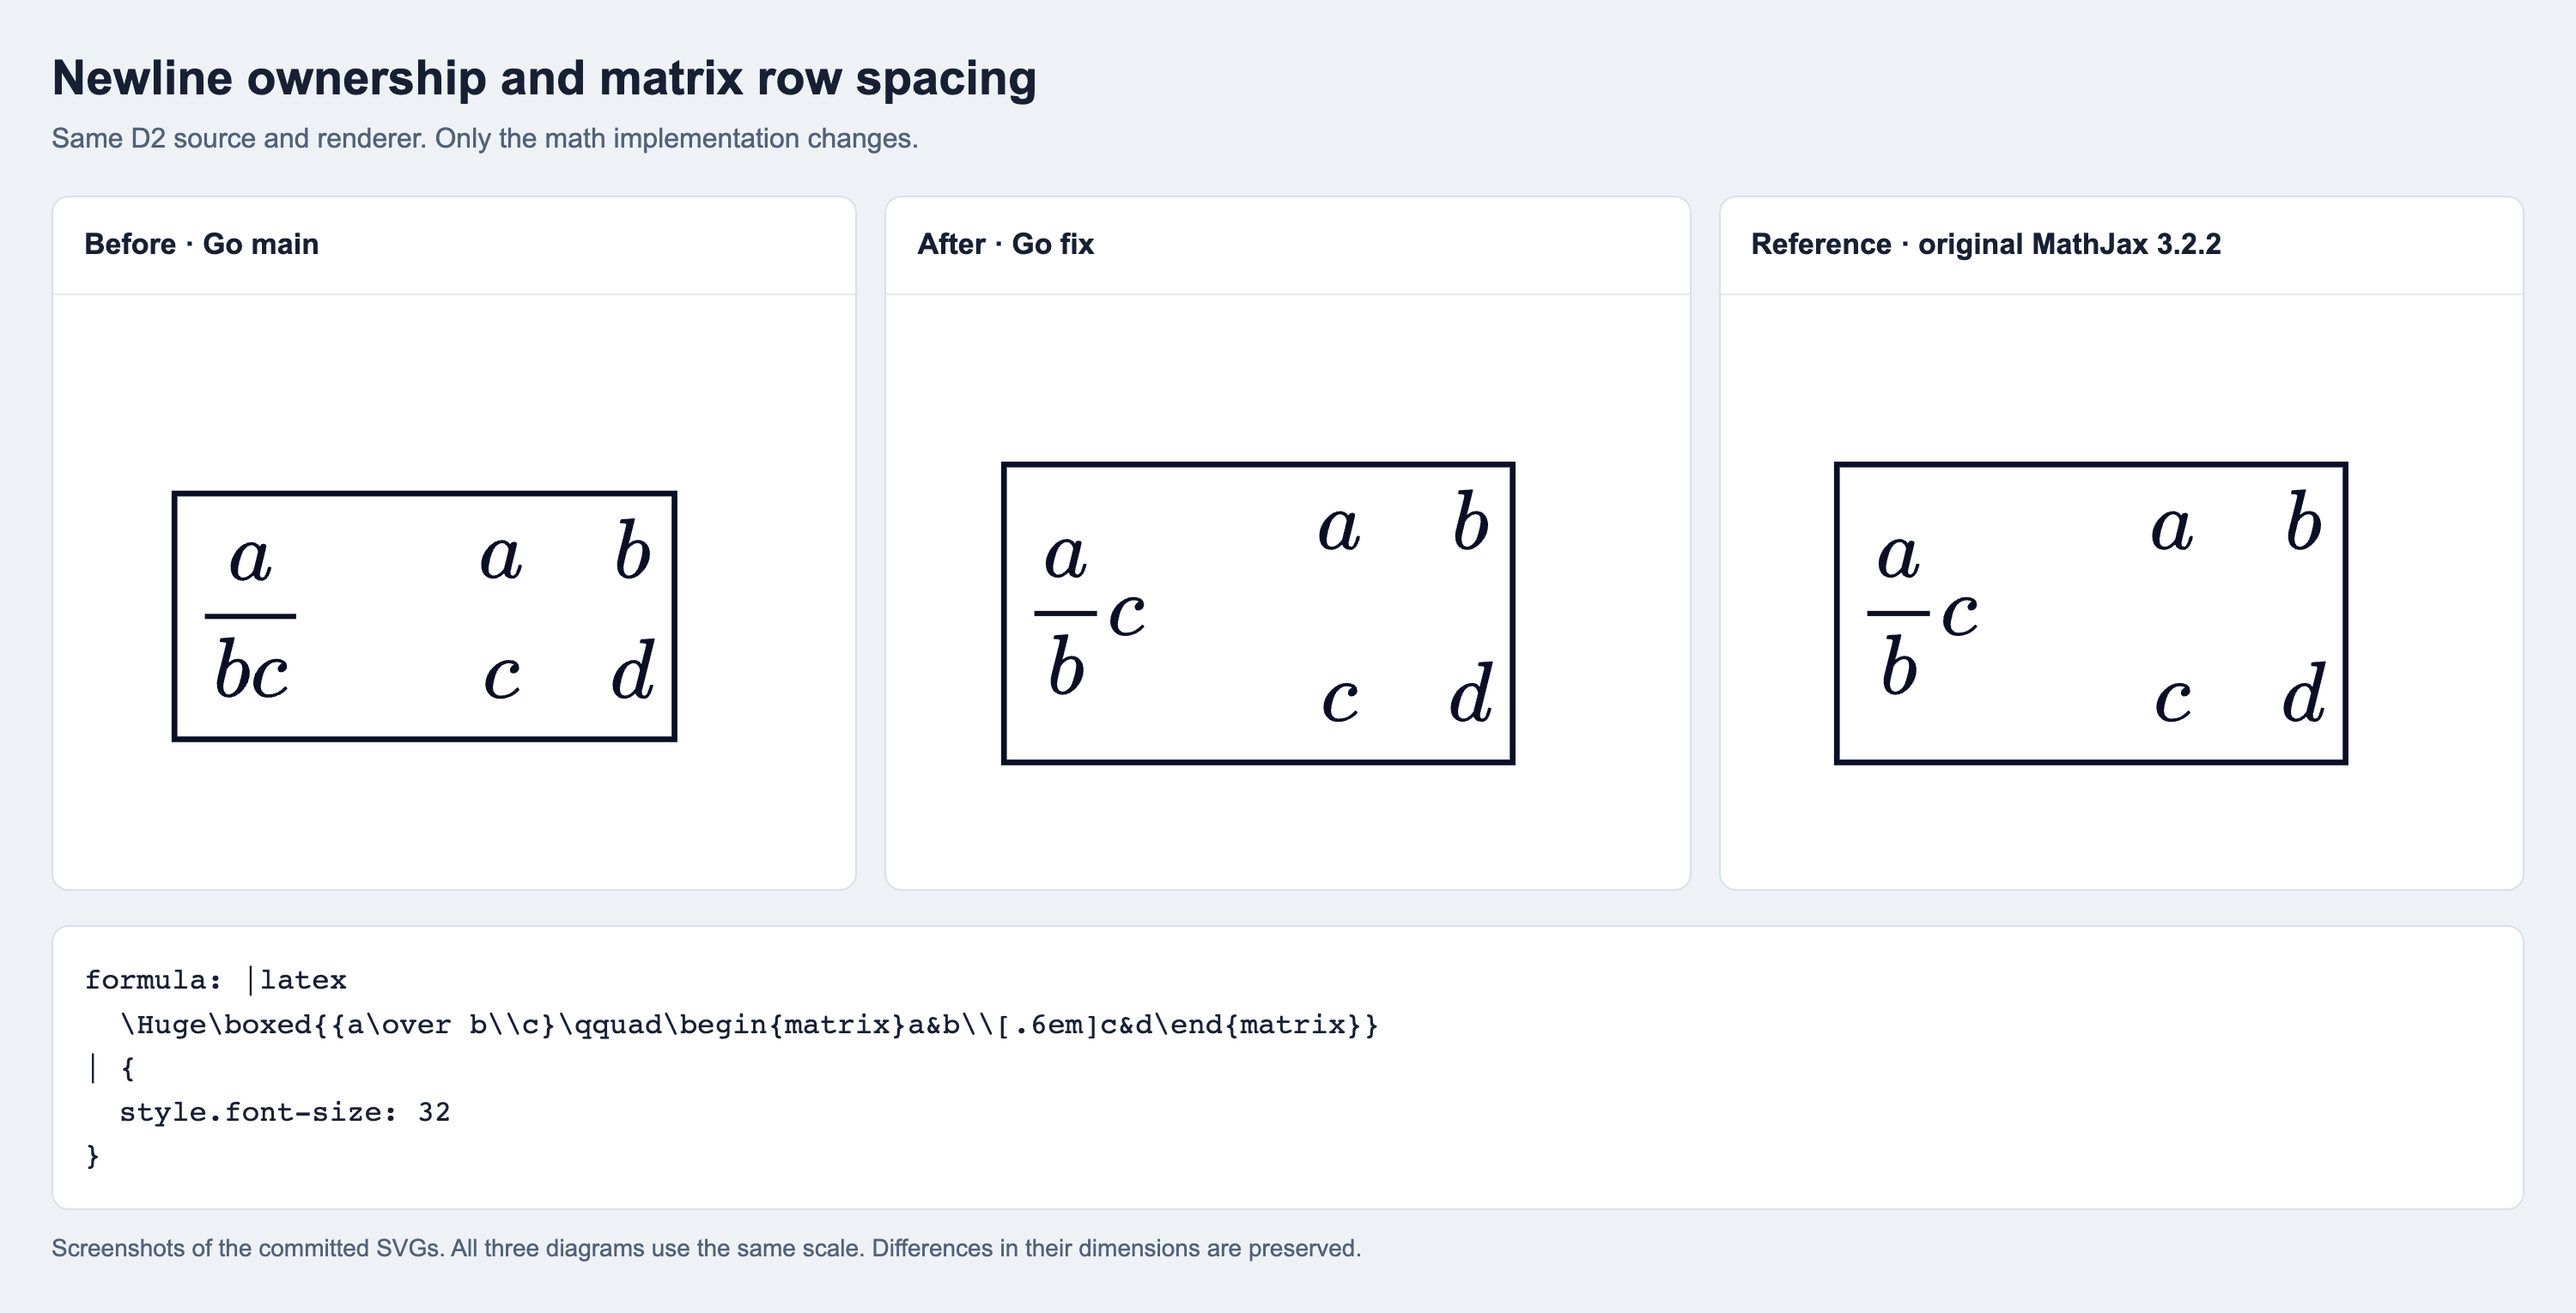
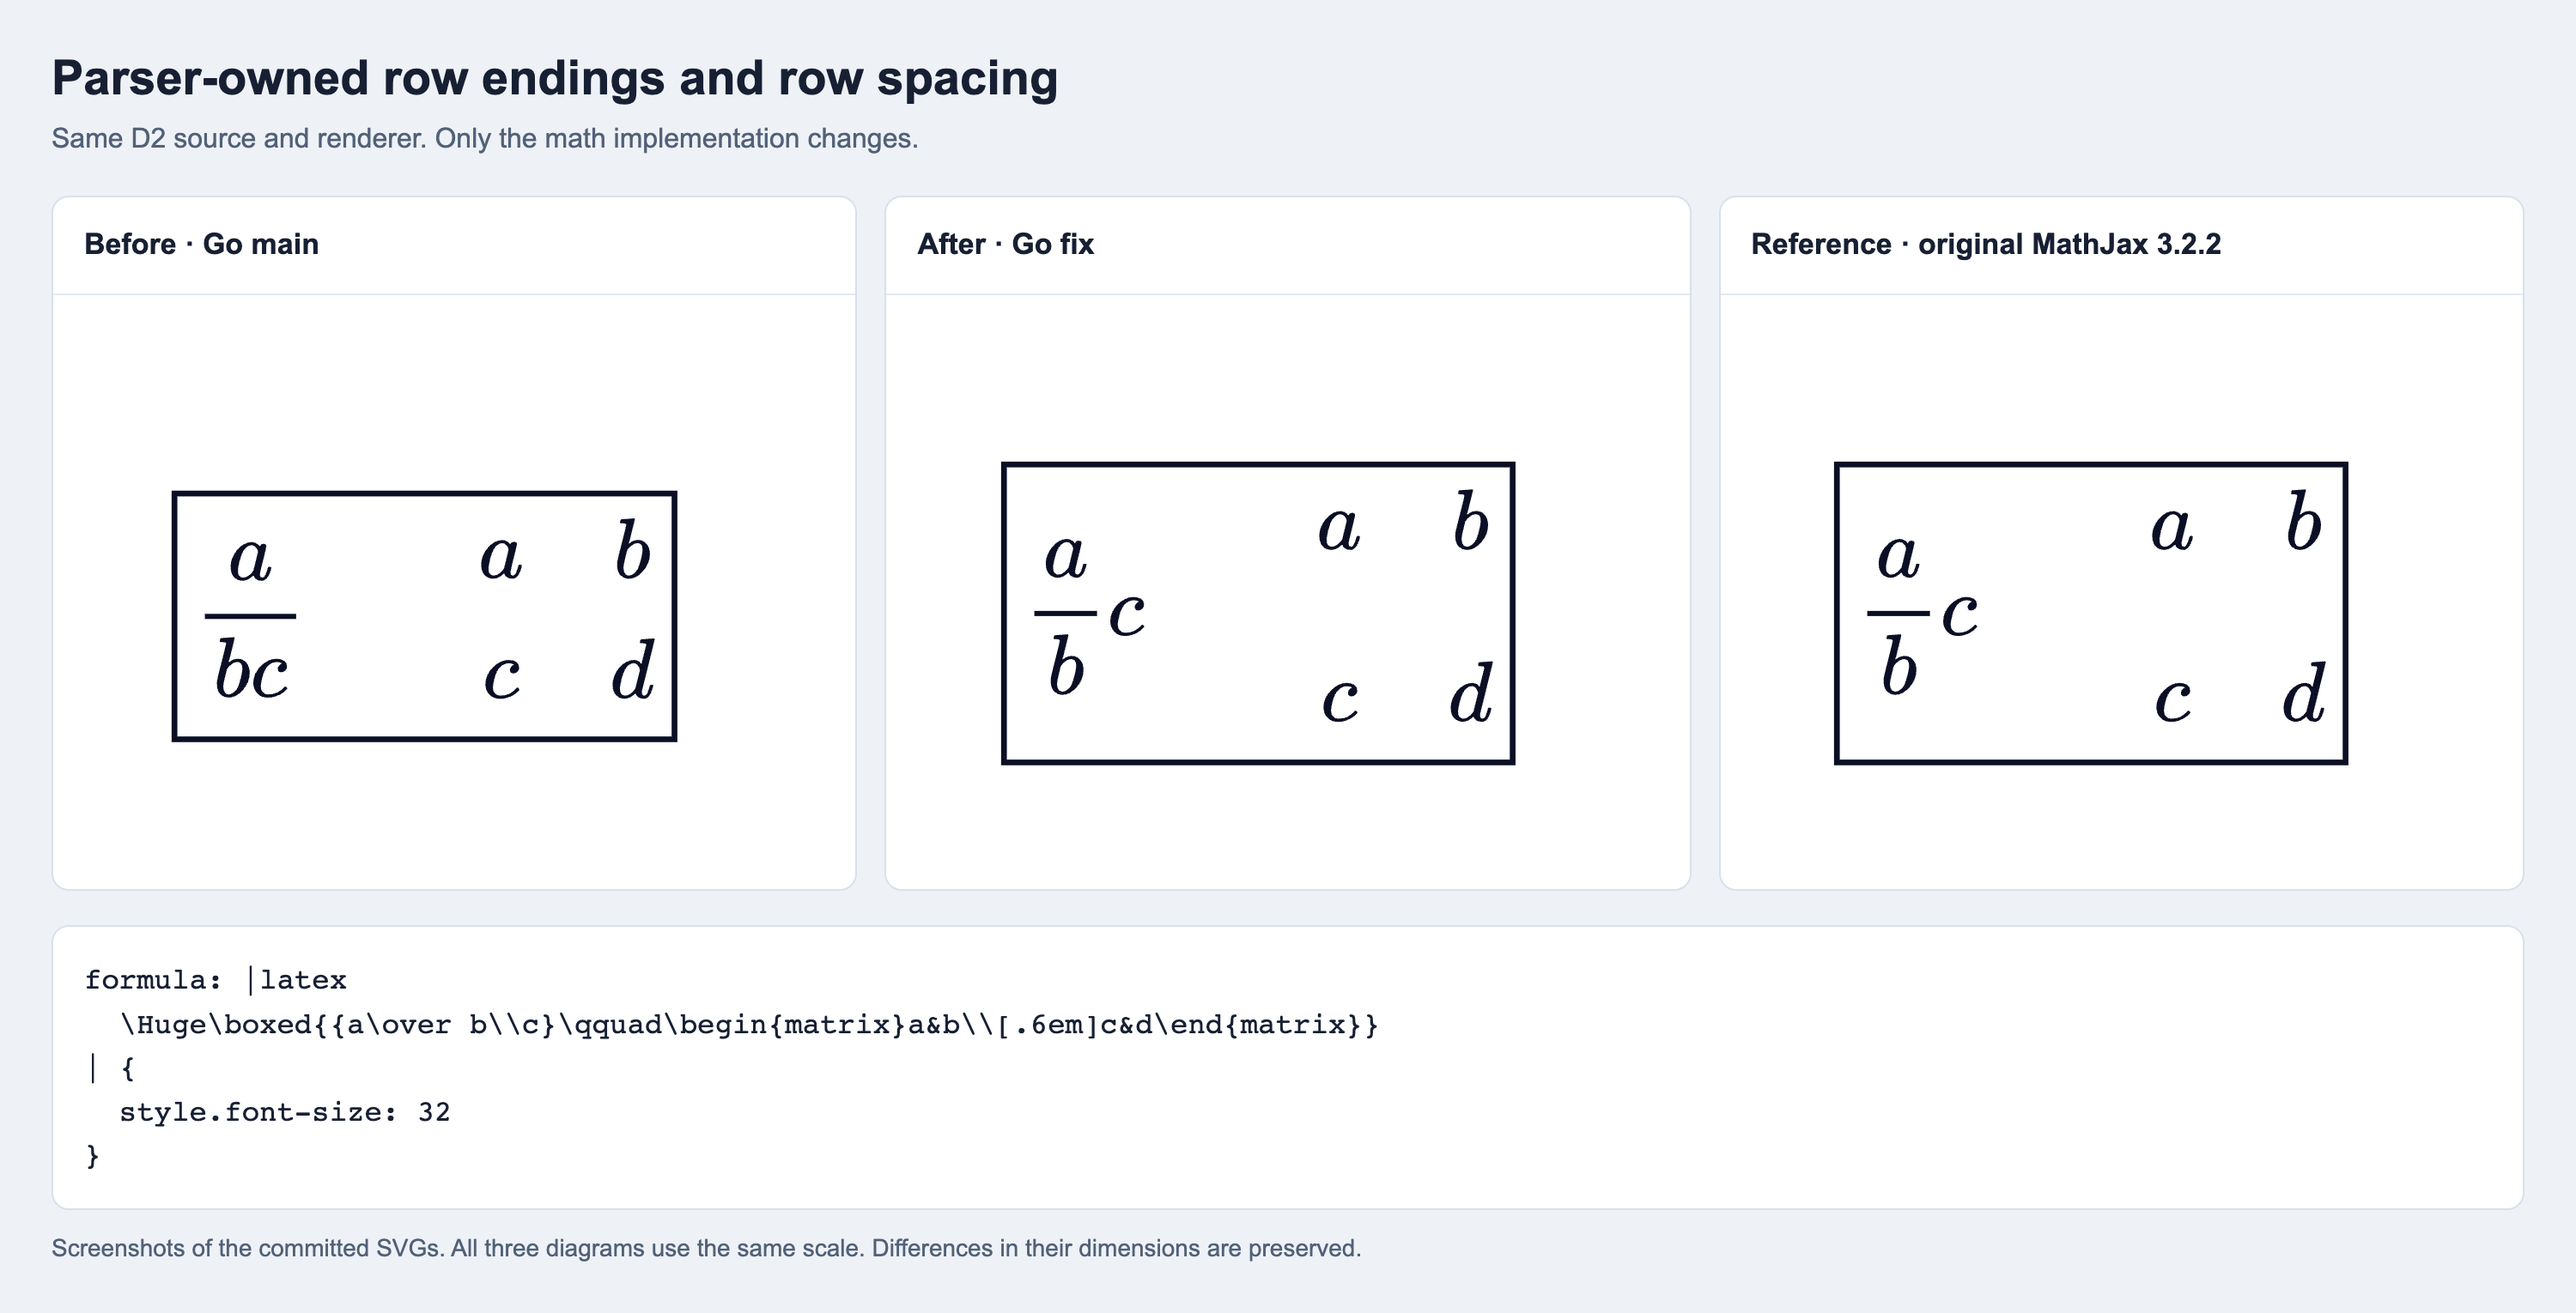
Show original row delivery and Physics matrix fences in D2
- sent from alixander's Codex

Changed region(s): [[0.031, 0.0307, 0.403, 0.0922]]

diff --git a/testdata/parity/physics-matrix-quantity/oracle-adapter/mathjax.go b/testdata/parity/physics-matrix-quantity/oracle-adapter/mathjax.go
@@ -1,0 +1,44 @@
+// Evidence-only adapter: D2 calls the unmodified frozen MathJax bundle.
+package mathjax
+
+import (
+ "bytes"
+ "encoding/json"
+ "fmt"
+ "math"
+ "os"
+ "os/exec"
+ "regexp"
+ "strconv"
+ "sync"
+)
+
+var cache sync.Map
+var dimensions = regexp.MustCompile(`<svg[^>]+width="([0-9.]+)ex" height="([0-9.]+)ex"[^>]+>`)
+
+func Render(tex string) (string, error) {
+ if cached, ok := cache.Load(tex); ok { return cached.(string), nil }
+ input, _ := json.Marshal(map[string]any{"tex": tex})
+ cmd := exec.Command(os.Getenv("MATHJAX_GO_NODE"), os.Getenv("MATHJAX_GO_ORACLE_SCRIPT"), "--asset-dir", os.Getenv("MATHJAX_GO_ORACLE_DIR"))
+ cmd.Stdin = bytes.NewReader(append(input, '\n'))
+ cmd.Stderr = os.Stderr
+ out, err := cmd.Output()
+ if err != nil { return "", err }
+ var result struct { SVG string `json:"svg"`; Error string `json:"error"` }
+ if err := json.Unmarshal(out, &result); err != nil { return "", err }
+ if result.Error != "" { return "", fmt.Errorf("original MathJax: %s", result.Error) }
+ cache.Store(tex, result.SVG)
+ return result.SVG, nil
+}
+
+func Measure(tex string) (int, int, error) {
+ svg, err := Render(tex)
+ if err != nil { return 0, 0, err }
+ m := dimensions.FindStringSubmatch(svg)
+ if len(m) != 3 { return 0, 0, fmt.Errorf("no SVG dimensions") }
+ w, err := strconv.ParseFloat(m[1], 64)
+ if err != nil { return 0, 0, err }
+ h, err := strconv.ParseFloat(m[2], 64)
+ if err != nil { return 0, 0, err }
+ return int(math.Ceil(w * 8)), int(math.Ceil(h * 8)), nil
+}
